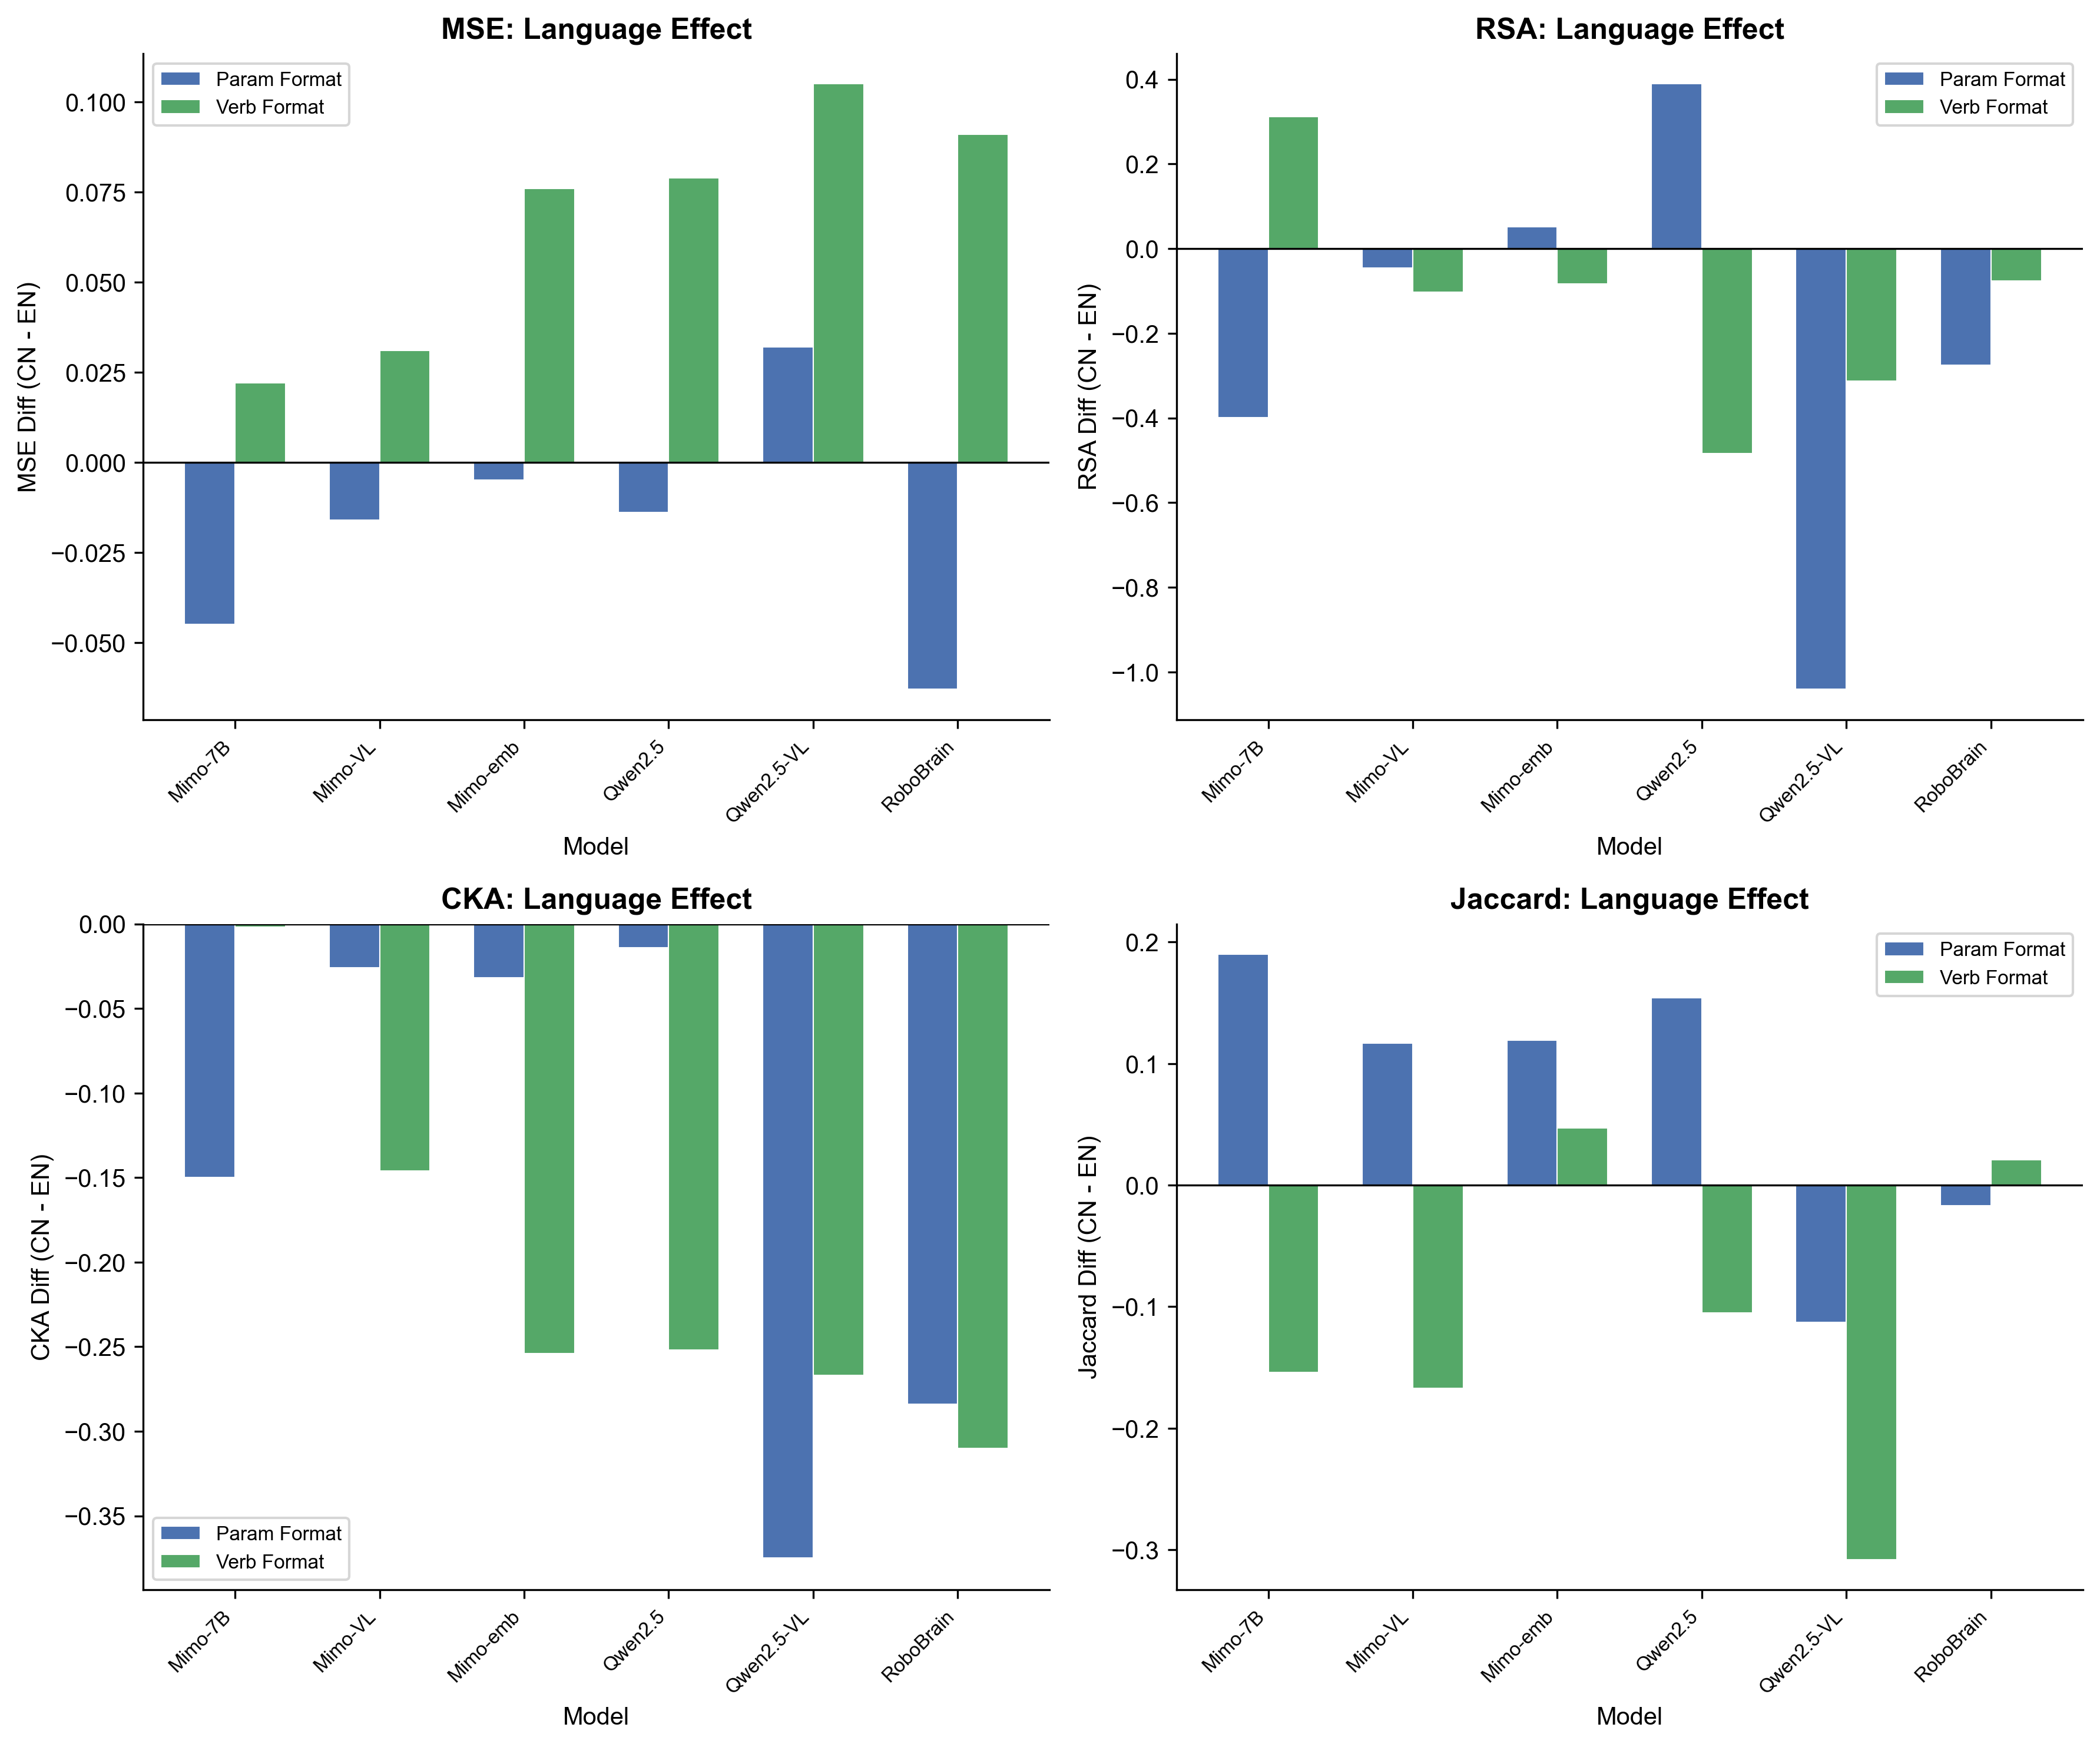
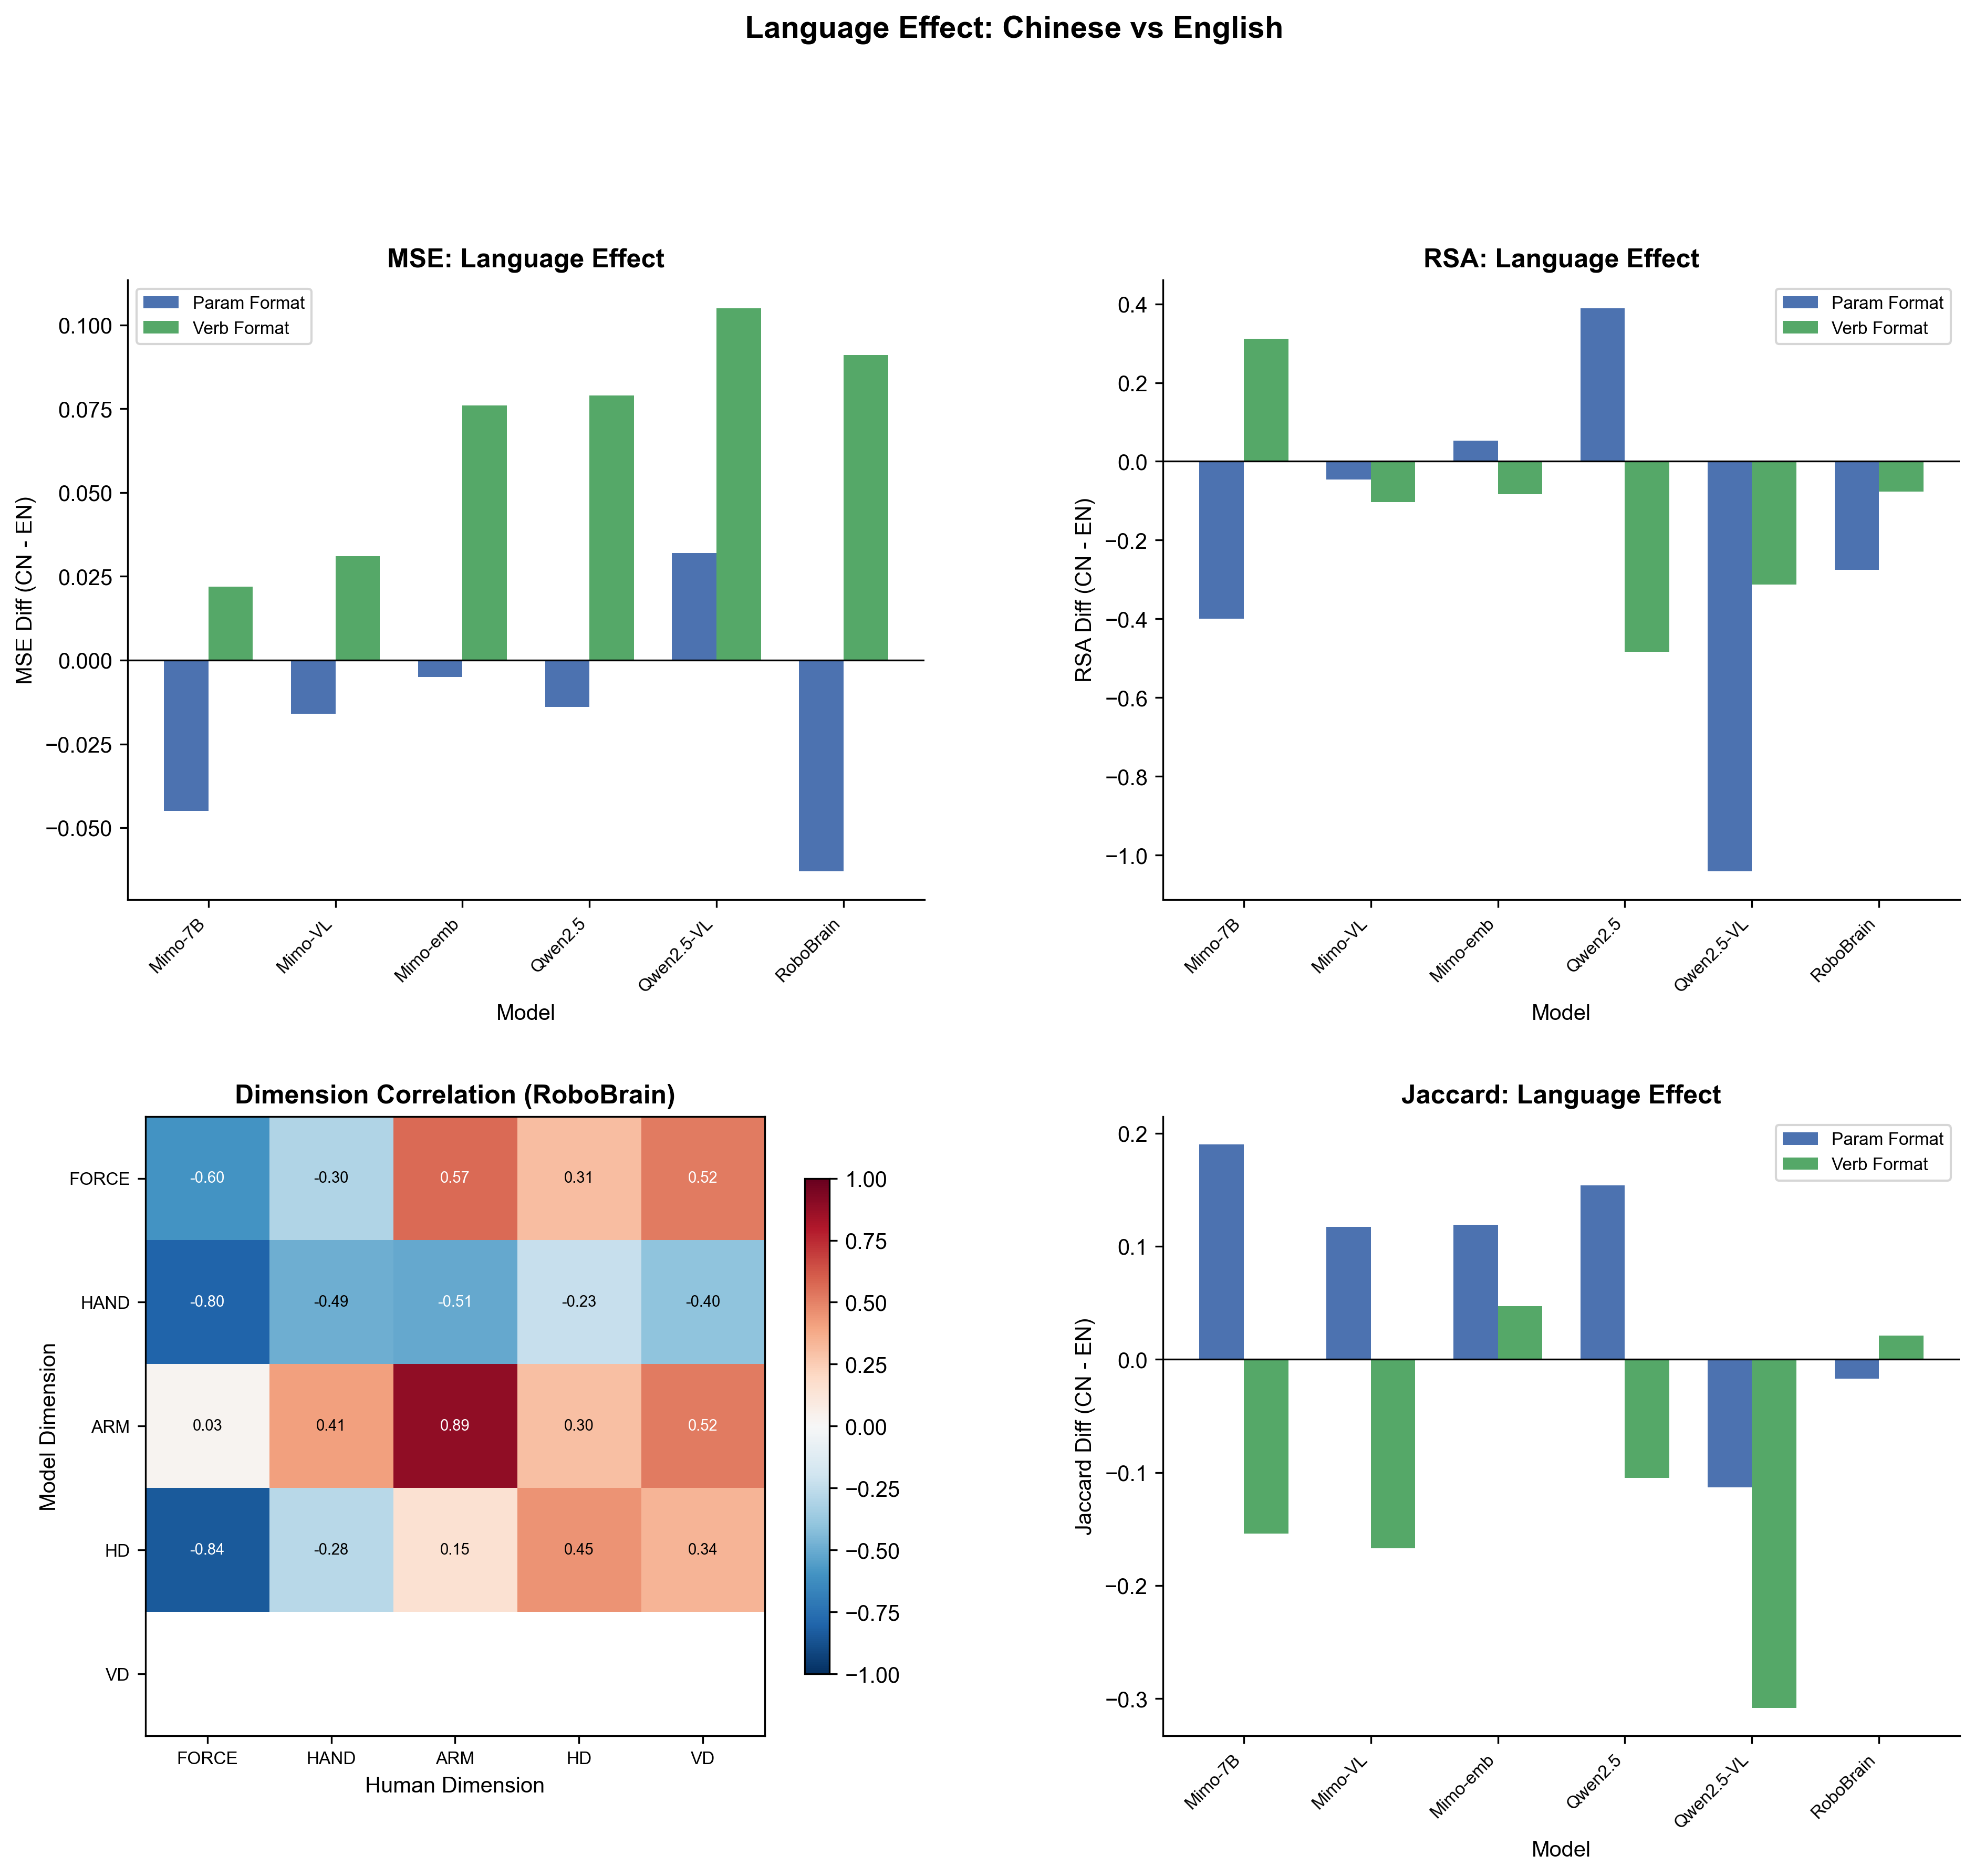
fix: 用维度相关性热力图替换CKA子图
- fig1_overview: CKA子图 → 维度相关性热力图
- fig2_language_effect: CKA子图 → 维度相关性热力图
- fig3_prompt_effect: CKA子图 → 维度相关性热力图

diff --git a/scripts/visualize_results_v2.py b/scripts/visualize_results_v2.py
@@ -1,0 +1,362 @@
+"""
+重新生成图表，把CKA子图替换成维度相关性热力图
+"""
+import matplotlib.pyplot as plt
+import numpy as np
+import matplotlib.gridspec as gridspec
+
+# 设置Nature风格
+plt.rcParams['font.family'] = 'Arial'
+plt.rcParams['font.size'] = 10
+plt.rcParams['axes.linewidth'] = 0.8
+
+# ============================================================
+# 数据
+# ============================================================
+
+model_names = ['Mimo-7B', 'Mimo-VL', 'Mimo-emb', 'Qwen2.5', 'Qwen2.5-VL', 'RoboBrain']
+model_keys = ['Mimo-7B-SFT', 'Mimo-VL-7B-SFT', 'Mimo-embodied-7B',
+              'Qwen2.5-7B-Instruct', 'Qwen2.5-VL-7B-Instruct', 'RoboBrain2.0-7B']
+
+# 总表数据
+data = {
+    'Mimo-7B-SFT': {
+        'Param-CN': {'MSE': 0.190, 'RSA': -0.442, 'Jaccard': 0.273},
+        'Param-EN': {'MSE': 0.235, 'RSA': -0.043, 'Jaccard': 0.083},
+        'Verb-CN': {'MSE': 0.197, 'RSA': 0.464, 'Jaccard': 0.077},
+        'Verb-EN': {'MSE': 0.175, 'RSA': 0.152, 'Jaccard': 0.231},
+    },
+    'Mimo-VL-7B-SFT': {
+        'Param-CN': {'MSE': 0.155, 'RSA': -0.178, 'Jaccard': 0.188},
+        'Param-EN': {'MSE': 0.171, 'RSA': -0.132, 'Jaccard': 0.071},
+        'Verb-CN': {'MSE': 0.135, 'RSA': -0.027, 'Jaccard': 0.000},
+        'Verb-EN': {'MSE': 0.104, 'RSA': 0.076, 'Jaccard': 0.167},
+    },
+    'Mimo-embodied-7B': {
+        'Param-CN': {'MSE': 0.213, 'RSA': 0.066, 'Jaccard': 0.333},
+        'Param-EN': {'MSE': 0.218, 'RSA': 0.014, 'Jaccard': 0.214},
+        'Verb-CN': {'MSE': 0.189, 'RSA': 0.121, 'Jaccard': 0.214},
+        'Verb-EN': {'MSE': 0.113, 'RSA': 0.205, 'Jaccard': 0.167},
+    },
+    'Qwen2.5-7B-Instruct': {
+        'Param-CN': {'MSE': 0.225, 'RSA': 0.147, 'Jaccard': 0.154},
+        'Param-EN': {'MSE': 0.239, 'RSA': -0.242, 'Jaccard': 0.000},
+        'Verb-CN': {'MSE': 0.150, 'RSA': 0.138, 'Jaccard': 0.077},
+        'Verb-EN': {'MSE': 0.071, 'RSA': 0.622, 'Jaccard': 0.182},
+    },
+    'Qwen2.5-VL-7B-Instruct': {
+        'Param-CN': {'MSE': 0.233, 'RSA': -0.528, 'Jaccard': 0.154},
+        'Param-EN': {'MSE': 0.201, 'RSA': 0.513, 'Jaccard': 0.267},
+        'Verb-CN': {'MSE': 0.180, 'RSA': 0.152, 'Jaccard': 0.000},
+        'Verb-EN': {'MSE': 0.075, 'RSA': 0.465, 'Jaccard': 0.308},
+    },
+    'RoboBrain2.0-7B': {
+        'Param-CN': {'MSE': 0.122, 'RSA': 0.504, 'Jaccard': 0.250},
+        'Param-EN': {'MSE': 0.185, 'RSA': 0.780, 'Jaccard': 0.267},
+        'Verb-CN': {'MSE': 0.163, 'RSA': -0.201, 'Jaccard': 0.154},
+        'Verb-EN': {'MSE': 0.072, 'RSA': -0.124, 'Jaccard': 0.133},
+    },
+}
+
+conditions = ['Param-CN', 'Param-EN', 'Verb-CN', 'Verb-EN']
+condition_labels = ['Param-CN', 'Param-EN', 'Verb-CN', 'Verb-EN']
+
+# ============================================================
+# 图1：总表（3个指标 + 维度相关性热力图）
+# ============================================================
+
+# 维度相关性数据（中文条件）
+dim_corr_zh = {
+    'Mimo-7B': np.array([[np.nan, np.nan, np.nan, np.nan, np.nan],
+                         [-0.60, -0.04, 0.04, -0.04, 0.04],
+                         [np.nan, np.nan, np.nan, np.nan, np.nan],
+                         [np.nan, np.nan, np.nan, np.nan, np.nan],
+                         [np.nan, np.nan, np.nan, np.nan, np.nan]]),
+    'Mimo-VL': np.array([[0.34, 0.41, 0.79, 0.66, 0.80],
+                         [0.07, 0.49, 0.84, 0.23, 0.42],
+                         [-0.54, -0.36, -0.12, -0.52, -0.63],
+                         [-0.80, -0.49, -0.51, -0.23, -0.40],
+                         [0.19, 0.38, 0.13, 0.03, 0.27]]),
+    'Mimo-emb': np.array([[0.80, 0.49, 0.51, 0.23, 0.40],
+                          [-0.78, -0.66, 0.07, -0.34, -0.10],
+                          [0.80, 0.49, 0.51, 0.23, 0.40],
+                          [np.nan, np.nan, np.nan, np.nan, np.nan],
+                          [0.10, -0.09, 0.54, -0.07, 0.30]]),
+    'Qwen2.5': np.array([[0.80, 0.49, 0.51, 0.23, 0.40],
+                         [0.88, 0.30, -0.19, -0.40, -0.37],
+                         [np.nan, np.nan, np.nan, np.nan, np.nan],
+                         [-0.80, -0.49, -0.51, -0.23, -0.40],
+                         [0.12, 0.03, 0.37, -0.43, -0.40]]),
+    'Qwen2.5-VL': np.array([[-0.64, -0.56, -0.41, -0.17, -0.43],
+                            [-0.33, -0.37, 0.25, 0.02, 0.37],
+                            [-0.36, -0.06, -0.01, -0.46, -0.40],
+                            [-0.09, 0.66, 0.51, 0.49, 0.33],
+                            [0.12, 0.03, 0.37, -0.43, -0.40]]),
+    'RoboBrain': np.array([[-0.60, -0.30, 0.57, 0.31, 0.52],
+                           [-0.80, -0.49, -0.51, -0.23, -0.40],
+                           [0.03, 0.41, 0.89, 0.30, 0.52],
+                           [-0.84, -0.28, 0.15, 0.45, 0.34],
+                           [np.nan, np.nan, np.nan, np.nan, np.nan]]),
+}
+
+dims = ['FORCE', 'HAND', 'ARM', 'HD', 'VD']
+
+fig = plt.figure(figsize=(15, 12))
+gs = gridspec.GridSpec(2, 2, hspace=0.35, wspace=0.3)
+
+# MSE
+ax1 = fig.add_subplot(gs[0, 0])
+x = np.arange(len(model_names))
+width = 0.2
+colors = ['#4C72B0', '#55A868', '#C44E52', '#8172B2']
+for i, cond in enumerate(conditions):
+    values = [data[model][cond]['MSE'] for model in model_keys]
+    ax1.bar(x + i * width, values, width, label=cond, color=colors[i])
+ax1.set_xlabel('Model')
+ax1.set_ylabel('MSE')
+ax1.set_title('MSE', fontweight='bold')
+ax1.set_xticks(x + width * 1.5)
+ax1.set_xticklabels(model_names, rotation=45, ha='right', fontsize=8)
+ax1.legend(fontsize=7)
+ax1.spines['top'].set_visible(False)
+ax1.spines['right'].set_visible(False)
+
+# RSA
+ax2 = fig.add_subplot(gs[0, 1])
+for i, cond in enumerate(conditions):
+    values = [data[model][cond]['RSA'] for model in model_keys]
+    ax2.bar(x + i * width, values, width, label=cond, color=colors[i])
+ax2.set_xlabel('Model')
+ax2.set_ylabel('RSA')
+ax2.set_title('RSA', fontweight='bold')
+ax2.set_xticks(x + width * 1.5)
+ax2.set_xticklabels(model_names, rotation=45, ha='right', fontsize=8)
+ax2.legend(fontsize=7)
+ax2.axhline(y=0, color='black', linewidth=0.5)
+ax2.spines['top'].set_visible(False)
+ax2.spines['right'].set_visible(False)
+
+# 维度相关性热力图（替代CKA）
+ax3 = fig.add_subplot(gs[1, 0])
+# 使用RoboBrain的数据作为示例
+corr_matrix = dim_corr_zh['RoboBrain']
+im = ax3.imshow(corr_matrix, cmap='RdBu_r', vmin=-1, vmax=1, aspect='equal')
+ax3.set_xticks(range(5))
+ax3.set_yticks(range(5))
+ax3.set_xticklabels(dims, fontsize=8)
+ax3.set_yticklabels(dims, fontsize=8)
+ax3.set_xlabel('Human Dimension')
+ax3.set_ylabel('Model Dimension')
+ax3.set_title('Dimension Correlation (RoboBrain)', fontweight='bold')
+for i in range(5):
+    for j in range(5):
+        val = corr_matrix[i, j]
+        if not np.isnan(val):
+            color = 'white' if abs(val) > 0.5 else 'black'
+            ax3.text(j, i, f'{val:.2f}', ha='center', va='center', fontsize=7, color=color)
+plt.colorbar(im, ax=ax3, shrink=0.8)
+
+# Jaccard
+ax4 = fig.add_subplot(gs[1, 1])
+for i, cond in enumerate(conditions):
+    values = [data[model][cond]['Jaccard'] for model in model_keys]
+    ax4.bar(x + i * width, values, width, label=cond, color=colors[i])
+ax4.set_xlabel('Model')
+ax4.set_ylabel('Jaccard')
+ax4.set_title('Jaccard', fontweight='bold')
+ax4.set_xticks(x + width * 1.5)
+ax4.set_xticklabels(model_names, rotation=45, ha='right', fontsize=8)
+ax4.legend(fontsize=7)
+ax4.spines['top'].set_visible(False)
+ax4.spines['right'].set_visible(False)
+
+plt.suptitle('Overview: Model Performance Across Conditions', fontsize=14, fontweight='bold', y=1.02)
+plt.savefig('D:/task/科研/LLM-evaluation/具神认知/embodied-verb-cognition/presentation/figures/fig1_overview.png', dpi=300, bbox_inches='tight')
+plt.close()
+print("Saved: fig1_overview.png")
+
+# ============================================================
+# 图2：语言影响（3个指标 + 维度相关性热力图）
+# ============================================================
+
+fig = plt.figure(figsize=(15, 12))
+gs = gridspec.GridSpec(2, 2, hspace=0.35, wspace=0.3)
+
+# 计算语言差值
+lang_diff = {}
+for model in model_keys:
+    lang_diff[model] = {}
+    for metric in ['MSE', 'RSA', 'Jaccard']:
+        cn_param = data[model]['Param-CN'][metric]
+        en_param = data[model]['Param-EN'][metric]
+        cn_verb = data[model]['Verb-CN'][metric]
+        en_verb = data[model]['Verb-EN'][metric]
+        lang_diff[model][f'Param_{metric}'] = cn_param - en_param
+        lang_diff[model][f'Verb_{metric}'] = cn_verb - en_verb
+
+# MSE Language Effect
+ax1 = fig.add_subplot(gs[0, 0])
+x = np.arange(len(model_names))
+width = 0.35
+param_diff = [lang_diff[model]['Param_MSE'] for model in model_keys]
+verb_diff = [lang_diff[model]['Verb_MSE'] for model in model_keys]
+ax1.bar(x - width/2, param_diff, width, label='Param Format', color='#4C72B0')
+ax1.bar(x + width/2, verb_diff, width, label='Verb Format', color='#55A868')
+ax1.set_xlabel('Model')
+ax1.set_ylabel('MSE Diff (CN - EN)')
+ax1.set_title('MSE: Language Effect', fontweight='bold')
+ax1.set_xticks(x)
+ax1.set_xticklabels(model_names, rotation=45, ha='right', fontsize=8)
+ax1.legend(fontsize=8)
+ax1.axhline(y=0, color='black', linewidth=0.8)
+ax1.spines['top'].set_visible(False)
+ax1.spines['right'].set_visible(False)
+
+# RSA Language Effect
+ax2 = fig.add_subplot(gs[0, 1])
+param_diff = [lang_diff[model]['Param_RSA'] for model in model_keys]
+verb_diff = [lang_diff[model]['Verb_RSA'] for model in model_keys]
+ax2.bar(x - width/2, param_diff, width, label='Param Format', color='#4C72B0')
+ax2.bar(x + width/2, verb_diff, width, label='Verb Format', color='#55A868')
+ax2.set_xlabel('Model')
+ax2.set_ylabel('RSA Diff (CN - EN)')
+ax2.set_title('RSA: Language Effect', fontweight='bold')
+ax2.set_xticks(x)
+ax2.set_xticklabels(model_names, rotation=45, ha='right', fontsize=8)
+ax2.legend(fontsize=8)
+ax2.axhline(y=0, color='black', linewidth=0.8)
+ax2.spines['top'].set_visible(False)
+ax2.spines['right'].set_visible(False)
+
+# 维度相关性热力图（替代CKA）
+ax3 = fig.add_subplot(gs[1, 0])
+corr_matrix = dim_corr_zh['RoboBrain']
+im = ax3.imshow(corr_matrix, cmap='RdBu_r', vmin=-1, vmax=1, aspect='equal')
+ax3.set_xticks(range(5))
+ax3.set_yticks(range(5))
+ax3.set_xticklabels(dims, fontsize=8)
+ax3.set_yticklabels(dims, fontsize=8)
+ax3.set_xlabel('Human Dimension')
+ax3.set_ylabel('Model Dimension')
+ax3.set_title('Dimension Correlation (RoboBrain)', fontweight='bold')
+for i in range(5):
+    for j in range(5):
+        val = corr_matrix[i, j]
+        if not np.isnan(val):
+            color = 'white' if abs(val) > 0.5 else 'black'
+            ax3.text(j, i, f'{val:.2f}', ha='center', va='center', fontsize=7, color=color)
+plt.colorbar(im, ax=ax3, shrink=0.8)
+
+# Jaccard Language Effect
+ax4 = fig.add_subplot(gs[1, 1])
+param_diff = [lang_diff[model]['Param_Jaccard'] for model in model_keys]
+verb_diff = [lang_diff[model]['Verb_Jaccard'] for model in model_keys]
+ax4.bar(x - width/2, param_diff, width, label='Param Format', color='#4C72B0')
+ax4.bar(x + width/2, verb_diff, width, label='Verb Format', color='#55A868')
+ax4.set_xlabel('Model')
+ax4.set_ylabel('Jaccard Diff (CN - EN)')
+ax4.set_title('Jaccard: Language Effect', fontweight='bold')
+ax4.set_xticks(x)
+ax4.set_xticklabels(model_names, rotation=45, ha='right', fontsize=8)
+ax4.legend(fontsize=8)
+ax4.axhline(y=0, color='black', linewidth=0.8)
+ax4.spines['top'].set_visible(False)
+ax4.spines['right'].set_visible(False)
+
+plt.suptitle('Language Effect: Chinese vs English', fontsize=14, fontweight='bold', y=1.02)
+plt.savefig('D:/task/科研/LLM-evaluation/具神认知/embodied-verb-cognition/presentation/figures/fig2_language_effect.png', dpi=300, bbox_inches='tight')
+plt.close()
+print("Saved: fig2_language_effect.png")
+
+# ============================================================
+# 图3：提示词影响（3个指标 + 维度相关性热力图）
+# ============================================================
+
+fig = plt.figure(figsize=(15, 12))
+gs = gridspec.GridSpec(2, 2, hspace=0.35, wspace=0.3)
+
+# 计算提示词差值
+prompt_diff = {}
+for model in model_keys:
+    prompt_diff[model] = {}
+    for lang in ['CN', 'EN']:
+        for metric in ['MSE', 'RSA', 'Jaccard']:
+            param = data[model][f'Param-{lang}'][metric]
+            verb = data[model][f'Verb-{lang}'][metric]
+            prompt_diff[model][f'{lang}_{metric}'] = param - verb
+
+# MSE Prompt Effect
+ax1 = fig.add_subplot(gs[0, 0])
+x = np.arange(len(model_names))
+width = 0.35
+cn_diff = [prompt_diff[model]['CN_MSE'] for model in model_keys]
+en_diff = [prompt_diff[model]['EN_MSE'] for model in model_keys]
+ax1.bar(x - width/2, cn_diff, width, label='Chinese', color='#C44E52')
+ax1.bar(x + width/2, en_diff, width, label='English', color='#8172B2')
+ax1.set_xlabel('Model')
+ax1.set_ylabel('MSE Diff (Param - Verb)')
+ax1.set_title('MSE: Prompt Format Effect', fontweight='bold')
+ax1.set_xticks(x)
+ax1.set_xticklabels(model_names, rotation=45, ha='right', fontsize=8)
+ax1.legend(fontsize=8)
+ax1.axhline(y=0, color='black', linewidth=0.8)
+ax1.spines['top'].set_visible(False)
+ax1.spines['right'].set_visible(False)
+
+# RSA Prompt Effect
+ax2 = fig.add_subplot(gs[0, 1])
+cn_diff = [prompt_diff[model]['CN_RSA'] for model in model_keys]
+en_diff = [prompt_diff[model]['EN_RSA'] for model in model_keys]
+ax2.bar(x - width/2, cn_diff, width, label='Chinese', color='#C44E52')
+ax2.bar(x + width/2, en_diff, width, label='English', color='#8172B2')
+ax2.set_xlabel('Model')
+ax2.set_ylabel('RSA Diff (Param - Verb)')
+ax2.set_title('RSA: Prompt Format Effect', fontweight='bold')
+ax2.set_xticks(x)
+ax2.set_xticklabels(model_names, rotation=45, ha='right', fontsize=8)
+ax2.legend(fontsize=8)
+ax2.axhline(y=0, color='black', linewidth=0.8)
+ax2.spines['top'].set_visible(False)
+ax2.spines['right'].set_visible(False)
+
+# 维度相关性热力图（替代CKA）
+ax3 = fig.add_subplot(gs[1, 0])
+corr_matrix = dim_corr_zh['RoboBrain']
+im = ax3.imshow(corr_matrix, cmap='RdBu_r', vmin=-1, vmax=1, aspect='equal')
+ax3.set_xticks(range(5))
+ax3.set_yticks(range(5))
+ax3.set_xticklabels(dims, fontsize=8)
+ax3.set_yticklabels(dims, fontsize=8)
+ax3.set_xlabel('Human Dimension')
+ax3.set_ylabel('Model Dimension')
+ax3.set_title('Dimension Correlation (RoboBrain)', fontweight='bold')
+for i in range(5):
+    for j in range(5):
+        val = corr_matrix[i, j]
+        if not np.isnan(val):
+            color = 'white' if abs(val) > 0.5 else 'black'
+            ax3.text(j, i, f'{val:.2f}', ha='center', va='center', fontsize=7, color=color)
+plt.colorbar(im, ax=ax3, shrink=0.8)
+
+# Jaccard Prompt Effect
+ax4 = fig.add_subplot(gs[1, 1])
+cn_diff = [prompt_diff[model]['CN_Jaccard'] for model in model_keys]
+en_diff = [prompt_diff[model]['EN_Jaccard'] for model in model_keys]
+ax4.bar(x - width/2, cn_diff, width, label='Chinese', color='#C44E52')
+ax4.bar(x + width/2, en_diff, width, label='English', color='#8172B2')
+ax4.set_xlabel('Model')
+ax4.set_ylabel('Jaccard Diff (Param - Verb)')
+ax4.set_title('Jaccard: Prompt Format Effect', fontweight='bold')
+ax4.set_xticks(x)
+ax4.set_xticklabels(model_names, rotation=45, ha='right', fontsize=8)
+ax4.legend(fontsize=8)
+ax4.axhline(y=0, color='black', linewidth=0.8)
+ax4.spines['top'].set_visible(False)
+ax4.spines['right'].set_visible(False)
+
+plt.suptitle('Prompt Format Effect: Param vs Verb', fontsize=14, fontweight='bold', y=1.02)
+plt.savefig('D:/task/科研/LLM-evaluation/具神认知/embodied-verb-cognition/presentation/figures/fig3_prompt_effect.png', dpi=300, bbox_inches='tight')
+plt.close()
+print("Saved: fig3_prompt_effect.png")
+
+print("\nDone!")